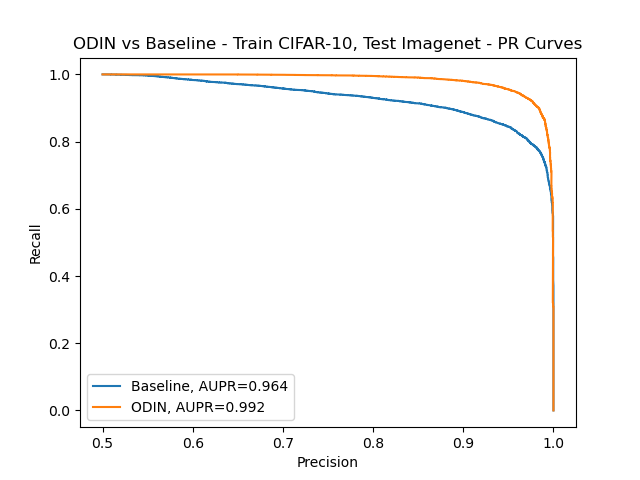
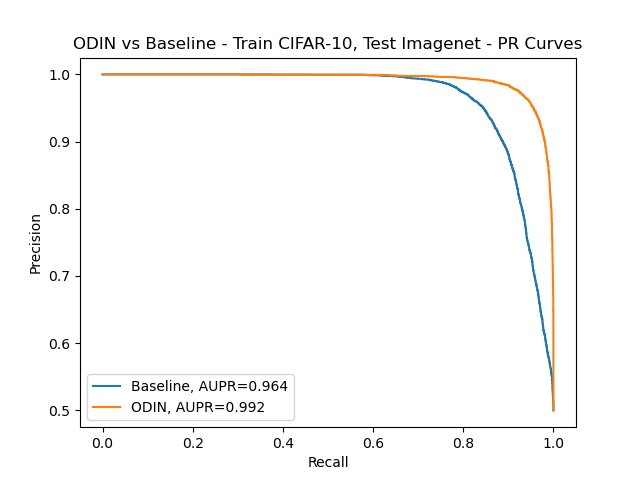
fixed PR curve axes

diff --git a/src/ODIN/generate_ROC_PR_curves.py b/src/ODIN/generate_ROC_PR_curves.py
@@ -7,8 +7,8 @@ import matplotlib.pyplot as plt
 import numpy as np
 from sklearn.metrics import auc, precision_recall_curve, roc_curve
 
-PARENT_DIRECTORY = "./Train_FashionMNIST_Test_MNIST/" # set the parent directory of the text file results
-TITLE = "ODIN vs Baseline - Train Fashion MNIST, Test MNIST - " # title of the plots
+PARENT_DIRECTORY = "./Train_SVHN_Test_CIFAR-10/" # set the parent directory of the text file results
+TITLE = "ODIN vs Baseline - Train SVHN, Test CIFAR-10 - " # title of the plots
 
 baseline_ID_data = np.loadtxt(PARENT_DIRECTORY+'confidence_Base_In.txt', delimiter=',')
 baseline_OOD_data = np.loadtxt(PARENT_DIRECTORY+'confidence_Base_Out.txt', delimiter=',')
@@ -63,8 +63,8 @@ plt.figure(2).clf()
 plt.title(TITLE + "PR Curves")
 plt.xlabel('Recall')
 plt.ylabel('Precision')
-plt.plot(baseline_precision,baseline_recall,label="Baseline, AUPR={:.3f}".format(baseline_aupr))
-plt.plot(ODIN_precision,ODIN_recall,label="ODIN, AUPR={:.3f}".format(ODIN_aupr))
+plt.plot(baseline_recall,baseline_precision,label="Baseline, AUPR={:.3f}".format(baseline_aupr))
+plt.plot(ODIN_recall,ODIN_precision,label="ODIN, AUPR={:.3f}".format(ODIN_aupr))
 plt.legend(loc='best')
 plt.savefig(PARENT_DIRECTORY+'pr_curve.png')
 
